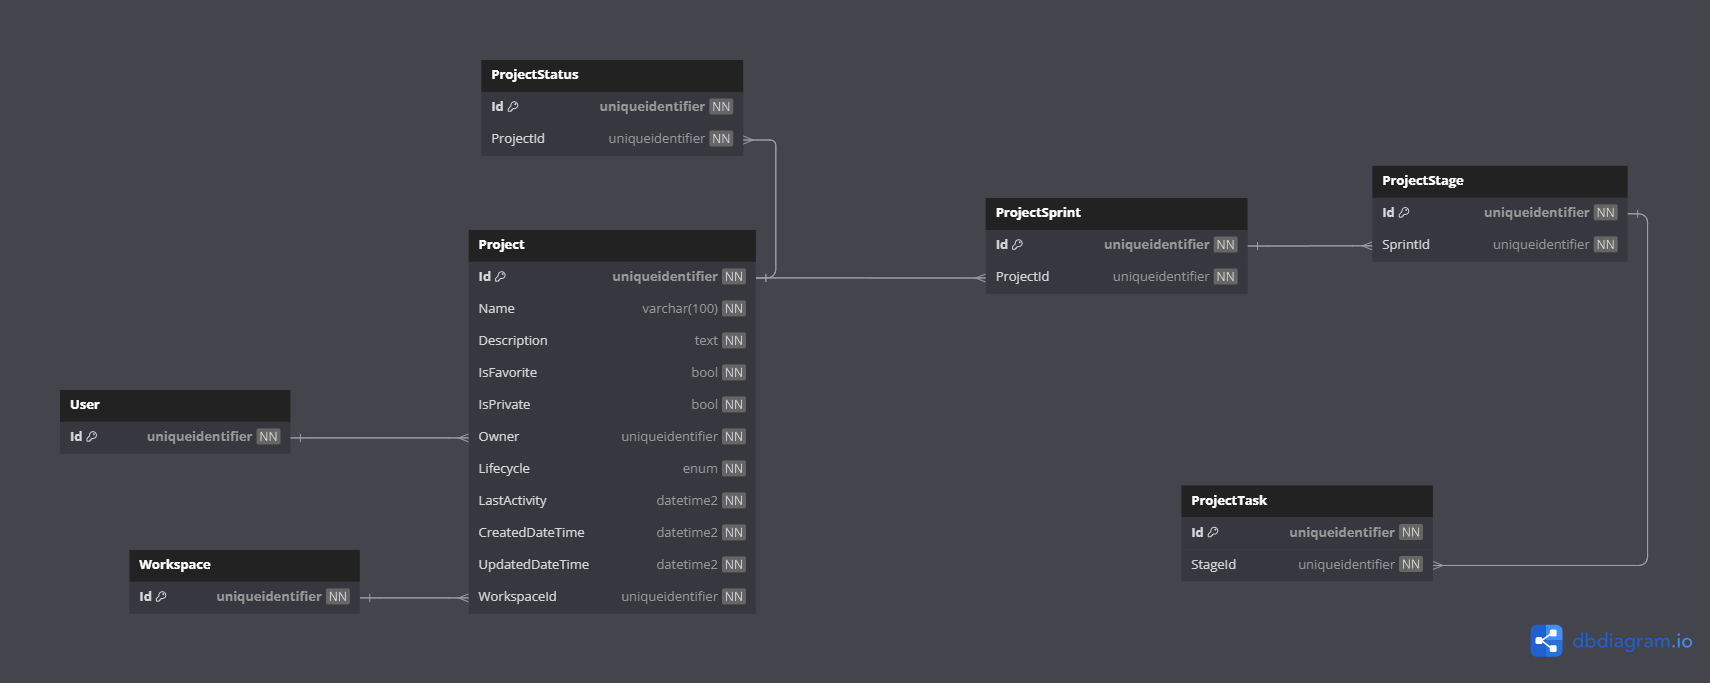
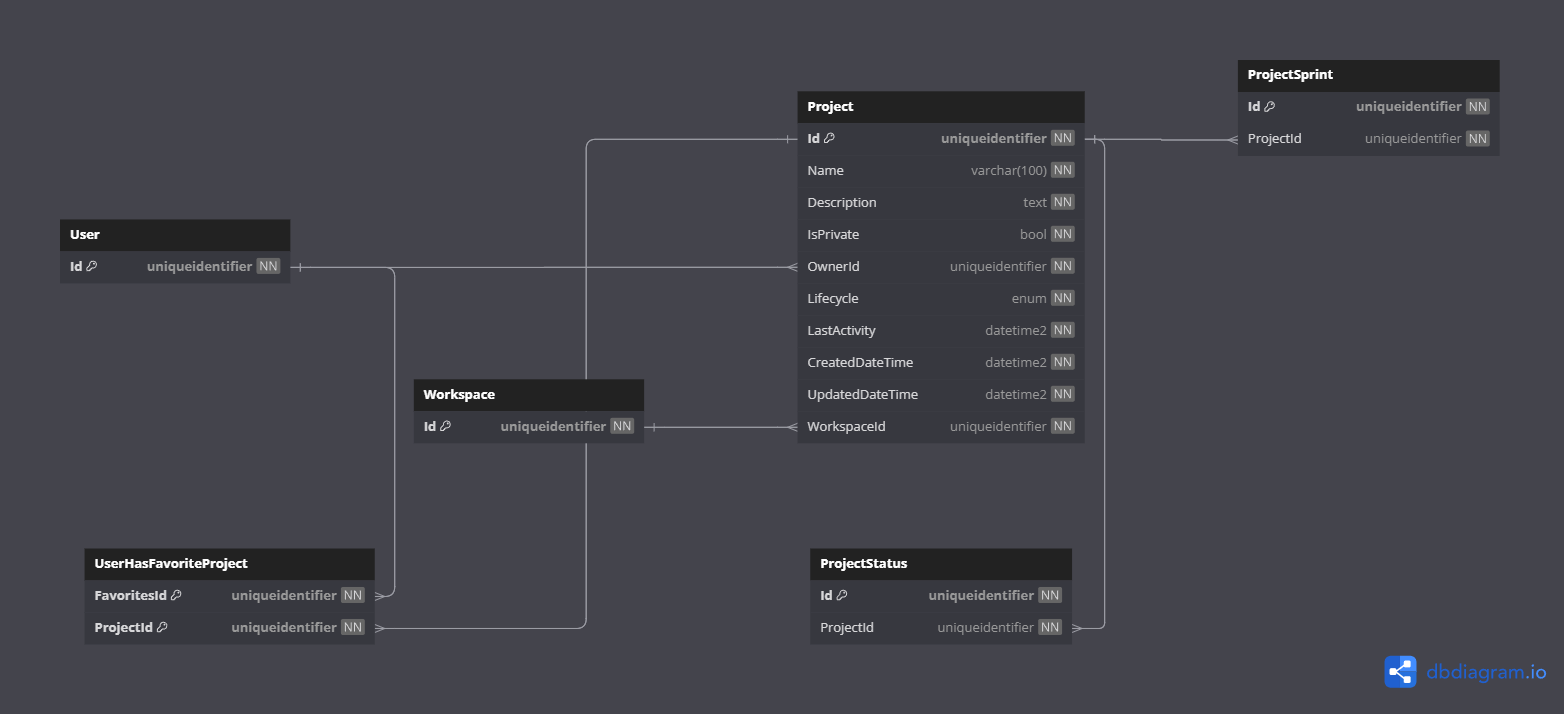
#180 Domain - Project and Workspace - Remove IsFavorite And replace with Favorites list of users + Remove IsFavorite Filter and add IsPersonal filter on workspace

diff --git a/src/ConsiliumTempus.Domain/Project/ProjectAggregate.cs b/src/ConsiliumTempus.Domain/Project/ProjectAggregate.cs
@@ -23,7 +23,6 @@ public sealed class ProjectAggregate : AggregateRoot<ProjectId, Guid>, ITimestam
         ProjectId id,
         Name name,
         Description description,
-        IsFavorite isFavorite,
         IsPrivate isPrivate,
         UserAggregate owner,
         ProjectLifecycle lifecycle,
@@ -34,7 +33,6 @@ public sealed class ProjectAggregate : AggregateRoot<ProjectId, Guid>, ITimestam
     {
         Name = name;
         Description = description;
-        IsFavorite = isFavorite;
         IsPrivate = isPrivate;
         Owner = owner;
         Lifecycle = lifecycle;
@@ -46,10 +44,10 @@ public sealed class ProjectAggregate : AggregateRoot<ProjectId, Guid>, ITimestam
 
     private readonly List<ProjectSprintAggregate> _sprints = [];
     private readonly List<ProjectStatus> _statuses = [];
+    private readonly List<UserAggregate> _favorites = [];
 
     public Name Name { get; private set; } = default!;
     public Description Description { get; private set; } = default!;
-    public IsFavorite IsFavorite { get; private set; } = default!;
     public IsPrivate IsPrivate { get; private set; } = default!;
     public UserAggregate Owner { get; private set; } = default!;
     public ProjectLifecycle Lifecycle { get; private set; }
@@ -57,6 +55,7 @@ public sealed class ProjectAggregate : AggregateRoot<ProjectId, Guid>, ITimestam
     public WorkspaceAggregate Workspace { get; init; } = default!;
     public IReadOnlyList<ProjectSprintAggregate> Sprints => _sprints.AsReadOnly();
     public IReadOnlyList<ProjectStatus> Statuses => _statuses.AsReadOnly();
+    public IReadOnlyList<UserAggregate> Favorites => _favorites.AsReadOnly();
     public DateTime CreatedDateTime { get; init; }
     public DateTime UpdatedDateTime { get; private set; }
 
@@ -70,7 +69,6 @@ public sealed class ProjectAggregate : AggregateRoot<ProjectId, Guid>, ITimestam
             ProjectId.CreateUnique(),
             name,
             Description.Create(string.Empty),
-            IsFavorite.Create(false),
             isPrivate,
             owner,
             ProjectLifecycle.Active,
@@ -84,10 +82,18 @@ public sealed class ProjectAggregate : AggregateRoot<ProjectId, Guid>, ITimestam
         return project;
     }
 
-    public void Update(Name name, IsFavorite isFavorite)
+    public bool IsFavorite(UserAggregate user)
+    {
+        return _favorites.SingleOrDefault(u => u == user) is not null;
+    }
+
+    public void Update(Name name, bool isFavorite, UserAggregate user)
     {
         Name = name;
-        IsFavorite = isFavorite;
+        if (isFavorite)
+            _favorites.Add(user);
+        else
+            _favorites.Remove(user);
         UpdatedDateTime = DateTime.UtcNow;
         RefreshActivity();
     }

diff --git a/src/ConsiliumTempus.Domain/Workspace/WorkspaceAggregate.cs b/src/ConsiliumTempus.Domain/Workspace/WorkspaceAggregate.cs
@@ -22,7 +22,6 @@ public sealed class WorkspaceAggregate : AggregateRoot<WorkspaceId, Guid>, ITime
         Description description,
         UserAggregate owner,
         IsPersonal isPersonal,
-        IsFavorite isFavorite,
         DateTime lastActivity,
         DateTime createdDateTime,
         DateTime updatedDateTime) : base(id)
@@ -31,7 +30,6 @@ public sealed class WorkspaceAggregate : AggregateRoot<WorkspaceId, Guid>, ITime
         Description = description;
         Owner = owner;
         IsPersonal = isPersonal;
-        IsFavorite = isFavorite;
         LastActivity = lastActivity;
         CreatedDateTime = createdDateTime;
         UpdatedDateTime = updatedDateTime;
@@ -39,17 +37,18 @@ public sealed class WorkspaceAggregate : AggregateRoot<WorkspaceId, Guid>, ITime
 
     private readonly List<Membership> _memberships = [];
     private readonly List<ProjectAggregate> _projects = [];
+    private readonly List<UserAggregate> _favorites = [];
 
     public Name Name { get; private set; } = default!;
     public Description Description { get; private set; } = default!;
     public IsPersonal IsPersonal { get; private set; } = default!;
-    public IsFavorite IsFavorite { get; private set; } = default!;
     public UserAggregate Owner { get; private set; } = default!;
     public DateTime LastActivity { get; private set; }
     public DateTime CreatedDateTime { get; init; }
     public DateTime UpdatedDateTime { get; private set; }
     public IReadOnlyList<Membership> Memberships => _memberships.AsReadOnly();
     public IReadOnlyList<ProjectAggregate> Projects => _projects.AsReadOnly();
+    public IReadOnlyList<UserAggregate> Favorites => _favorites.AsReadOnly();
 
     public static WorkspaceAggregate Create(
         Name name,
@@ -62,12 +61,16 @@ public sealed class WorkspaceAggregate : AggregateRoot<WorkspaceId, Guid>, ITime
             Description.Create(string.Empty), 
             owner,
             isPersonal,
-            IsFavorite.Create(false),
             DateTime.UtcNow,
             DateTime.UtcNow,
             DateTime.UtcNow);
 
         return workspace;
+    }
+    
+    public bool IsFavorite(UserAggregate user)
+    {
+        return _favorites.SingleOrDefault(u => u == user) is not null;
     }
 
     public void Update(Name name, Description description)

diff --git a/src/ConsiliumTempus.Domain/Common/Filters/Properties/FilterProperties.Workspace.cs b/src/ConsiliumTempus.Domain/Common/Filters/Properties/FilterProperties.Workspace.cs
@@ -10,9 +10,9 @@ internal static partial class FilterProperties
         internal sealed class NameFilterProperty() : FilterProperty<WorkspaceAggregate>(
             nameof(WorkspaceAggregate.Name),
             w => w.Name.Value);
-        
-        internal sealed class IsFavoriteProperty() : FilterProperty<WorkspaceAggregate>(
-            nameof(WorkspaceAggregate.IsFavorite),
-            w => w.IsFavorite.Value);
+
+        internal sealed class IsPersonalFilterProperty() : FilterProperty<WorkspaceAggregate>(
+            nameof(WorkspaceAggregate.IsPersonal),
+            w => w.IsPersonal.Value);
     }
 }

diff --git a/src/ConsiliumTempus.Domain/Common/Filters/Properties/FilterProperties.Project.cs b/src/ConsiliumTempus.Domain/Common/Filters/Properties/FilterProperties.Project.cs
@@ -11,10 +11,6 @@ internal static partial class FilterProperties
             nameof(ProjectAggregate.Name),
             p => p.Name.Value);
         
-        internal sealed class IsFavoriteProperty() : FilterProperty<ProjectAggregate>(
-            nameof(ProjectAggregate.IsFavorite),
-            p => p.IsFavorite.Value);
-        
         internal sealed class IsPrivateProperty() : FilterProperty<ProjectAggregate>(
             nameof(ProjectAggregate.IsPrivate),
             p => p.IsPrivate.Value);

diff --git a/src/ConsiliumTempus.Domain/Common/Filters/WorkspaceFilter.cs b/src/ConsiliumTempus.Domain/Common/Filters/WorkspaceFilter.cs
@@ -11,7 +11,7 @@ public abstract class WorkspaceFilter : Filter<WorkspaceAggregate>
     public static readonly IReadOnlyList<FilterProperty<WorkspaceAggregate>> FilterProperties =
     [
         new FilterProperties.Workspace.NameFilterProperty(),
-        new FilterProperties.Workspace.IsFavoriteProperty()
+        new FilterProperties.Workspace.IsPersonalFilterProperty(),
     ];
 
     private WorkspaceFilter(Expression<Func<WorkspaceAggregate, bool>> predicate) : base(predicate)

diff --git a/src/ConsiliumTempus.Domain/Common/Filters/ProjectFilter.cs b/src/ConsiliumTempus.Domain/Common/Filters/ProjectFilter.cs
@@ -11,7 +11,6 @@ public abstract class ProjectFilter : Filter<ProjectAggregate>
     public static readonly IReadOnlyList<FilterProperty<ProjectAggregate>> FilterProperties =
     [
         new FilterProperties.Project.NameFilterProperty(),
-        new FilterProperties.Project.IsFavoriteProperty(),
         new FilterProperties.Project.IsPrivateProperty(),
         new FilterProperties.Project.LifecycleProperty()
     ];

diff --git a/docs/database-diagrams/aggregates/Diagram.User.md b/docs/database-diagrams/aggregates/Diagram.User.md
@@ -6,8 +6,14 @@
 
 - **Many-to-many** relationship with the [Workspace](../../domain/aggregates/Aggregate.Workspace.md) aggregate
 (through the **Many-to-one** relationship with the [Membership](../../domain/entities/Entity.Membership.md) entity).
-- **One-to-many** relationship with the [Workspace](../../domain/aggregates/Aggregate.Workspace.md) aggregate.
+- **Many-to-many** relationship with the [Workspace](../../domain/aggregates/Aggregate.Workspace.md) aggregate
+(through the **UserHasFavoriteWorkspace**).
+- **Many-to-many** relationship with the [Project](../../domain/aggregates/Aggregate.Project.md) aggregate
+(through the **UserHasFavoriteProject**).
 - **One-to-many** relationship with the [Refresh Token](../../domain/entities/Entity.RefreshToken.md) entity.
+- **One-to-many** relationship with the [Audit](../../domain/entities/Entity.Audit.md) entity.
+- **One-to-many** relationship with the [Workspace](../../domain/aggregates/Aggregate.Workspace.md) aggregate.
+- **One-to-many** relationship with the [Project](../../domain/aggregates/Aggregate.Project.md) aggregate.
 - 3x **One-to-many** relationships with the [Project Task](../../domain/aggregates/Aggregate.ProjectTask.md) aggregate.
 - **One-to-many** relationship with the [Project Task Comment](../../domain/entities/project-task/Entity.ProjectTaskComment.md) entity.
 

diff --git a/docs/database-diagrams/aggregates/Diagram.Project.md b/docs/database-diagrams/aggregates/Diagram.Project.md
@@ -6,12 +6,10 @@
 
 - **Many-to-one** relationship with the [Workspace](../../domain/aggregates/Aggregate.Workspace.md) aggregate.
 - **Many-to-one** relationship with the [User](../../domain/aggregates/Aggregate.User.md) aggregate.
+- **Many-to-many** relationship with the [User](../../domain/aggregates/Aggregate.User.md) aggregate
+(through the **UserHasFavoriteProject** entity).
 - **One-to-Many** relationship with the [Project Status](../../domain/entities/project/Entity.ProjectStatus.md) entity.
 - **One-to-Many** relationship with the [Project Sprint](../../domain/aggregates/Aggregate.ProjectSprint.md) entity.
-  - The Sprint has a **One-to-Many** relationship with the 
-    [Project Stage](../../domain/entities/project-sprint/Entity.ProjectStage.md) entity.
-    - The Stage has a **One-to-Many** relationship with the
-      [Project Task](../../aggregates/Aggregate.ProjectTask) aggregate.
 
 ### Diagram
 

diff --git a/docs/domain/aggregates/Aggregate.Project.md b/docs/domain/aggregates/Aggregate.Project.md
@@ -22,7 +22,6 @@ class Project
   "id": { "value": "00000000-0000-0000-0000-000000000000" },
   "name": "Project 1",
   "description": { "value": "This is the description of the project" },
-  "isFavorite": { "value": false },
   "isPrivate": { "value": true },
   "owner": {},
   "lifecycle": "Active",
@@ -31,7 +30,8 @@ class Project
   "updatedDateTime": "2020-01-01T00:00:00.0000000Z",
   "workspace": {},
   "sprints": [{}],
-  "statuses": [{}]
+  "statuses": [{}],
+  "favorites": [{}]
 }
 ```
 
@@ -52,7 +52,6 @@ For database design checkout the [Project Diagram](../../database-diagrams/aggre
 ### Filters
 
 - **Name** to filter by name
-- **IsFavorite** to filter by favorites
 - **IsPrivate** to filter by accessibility
 - **Lifecycle** to filter by lifecycle
 

diff --git a/docs/domain/aggregates/Aggregate.Workspace.md b/docs/domain/aggregates/Aggregate.Workspace.md
@@ -22,12 +22,12 @@ class Workspace
   "name": { "value": "Workspace 1" },
   "description": { "value": "This is the description of the workspace" },
   "isPersonal": { "value": true },
-  "isFavorite": { "value": true },
   "owner": {},
   "lastActivity": "2020-01-01T00:00:00.0000000Z",
   "createdDateTime": "2020-01-01T00:00:00.0000000Z",
   "updatedDateTime": "2020-01-01T00:00:00.0000000Z",
-  "memberships": [{}]
+  "memberships": [{}],
+  "favorites": [{}]
 }
 ```
 
@@ -53,7 +53,7 @@ otherwise they can be part of other people's personal workspaces, but they can't
 ### Filters
 
 - **Name** to filter by name
-- **IsFavorite** to filter by favorite
+- **IsPersonal** to filter by the *IsPersonal* Property
 
 ### Orders
 

diff --git a/docs/database-diagrams/aggregates/Diagram.Workspace.md b/docs/database-diagrams/aggregates/Diagram.Workspace.md
@@ -6,6 +6,8 @@
 
 - **Many-to-many** relationship with the [User](../../domain/aggregates/Aggregate.User.md) aggregate.
 (through the **Many-to-one** relationship with the [Membership](../../domain/entities/Entity.Membership.md) entity).
+- **Many-to-many** relationship with the [User](../../domain/aggregates/Aggregate.User.md) aggregate.
+  (through the **UserHasFavoriteWorkspace** entity).
 - **Many-to-one** relationship with the [User](../../domain/aggregates/Aggregate.User.md) aggregate.
 - **One-to-Many** relationship with the [Project](../../domain/aggregates/Aggregate.Project.md) aggregate.
 

diff --git a/docs/Domain.md b/docs/Domain.md
@@ -71,7 +71,6 @@ The value objects are:
 
 - **CustomOrderPosition**, which encapsulates an int *Value,* and it's used to achieve custom ordering
 - **Description**, which encapsulates a string *Value*
-- **IsFavorite**, which encapsulates a boolean *Value*
 - **IsPrivate**, which encapsulates a boolean *Value*
 - **Message**, which encapsulates a string *Value*
 - **Name**, which encapsulates a string *Value*
